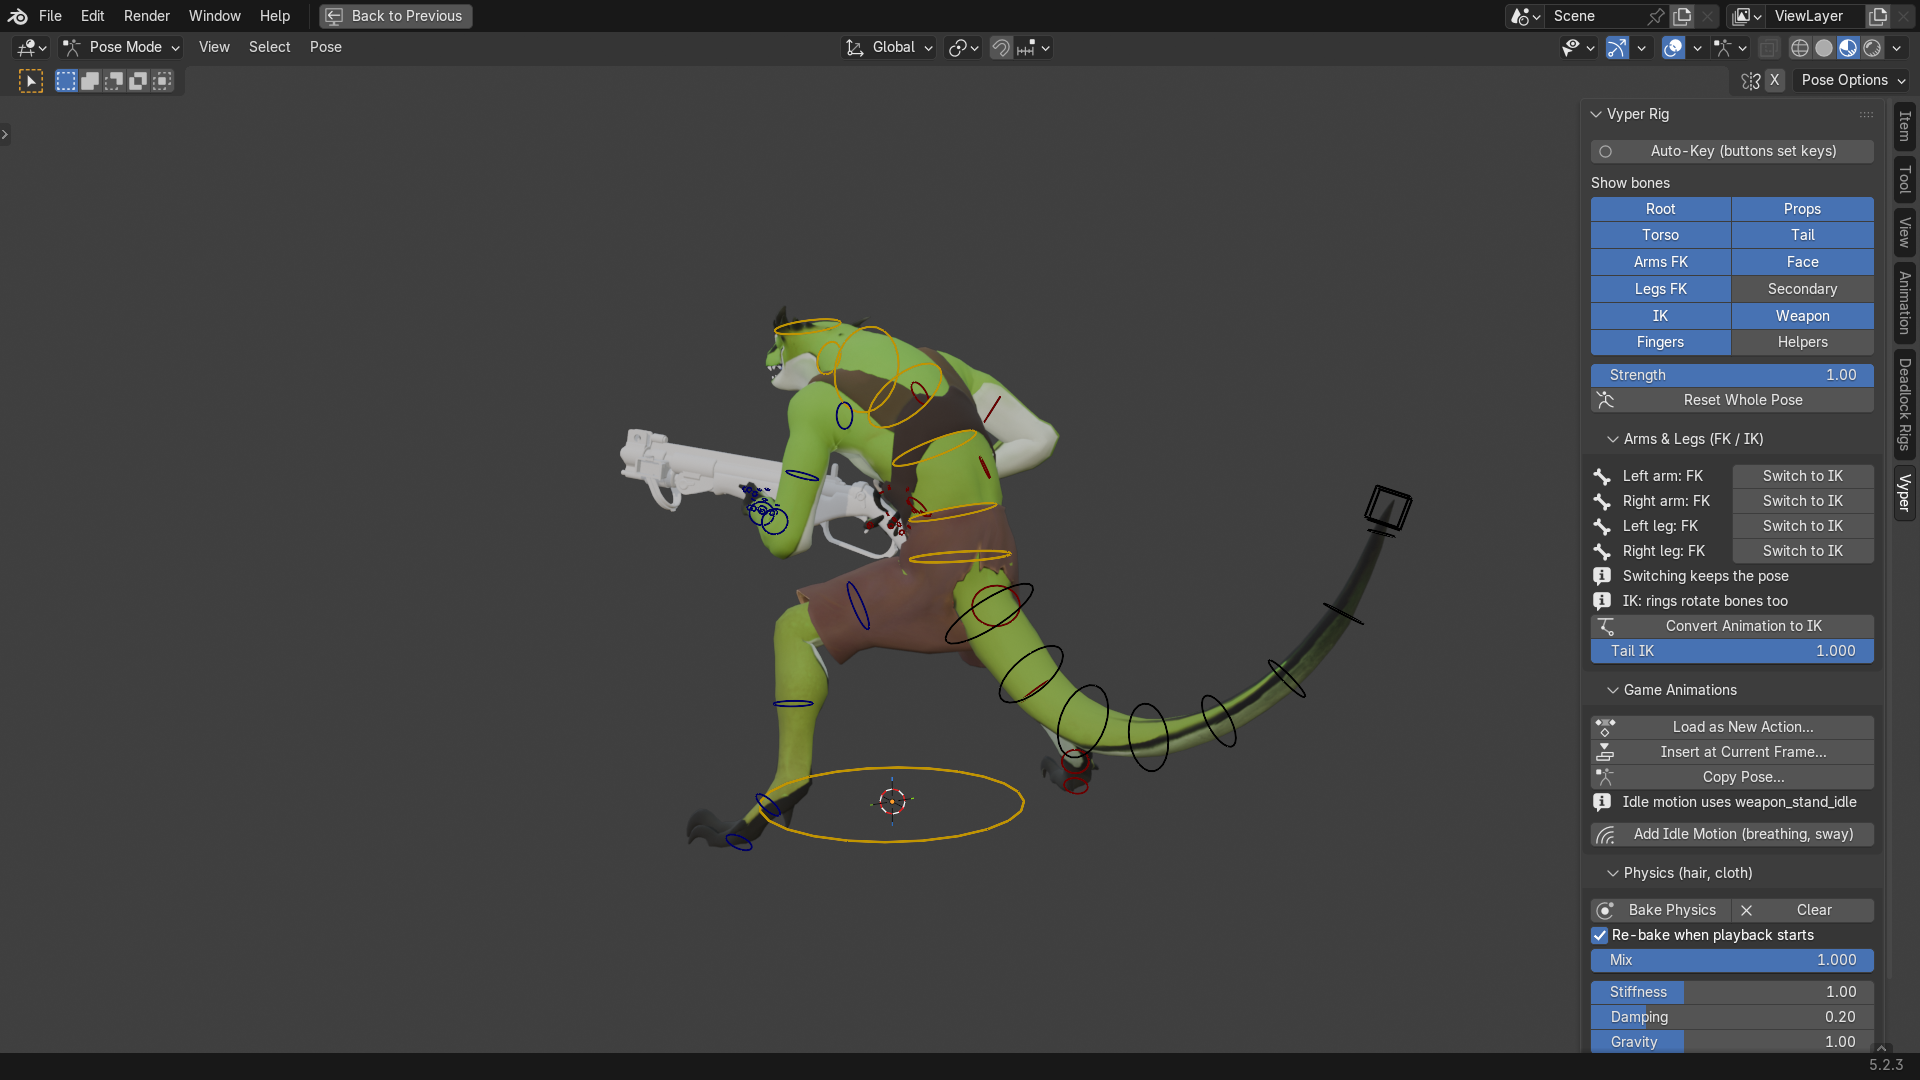
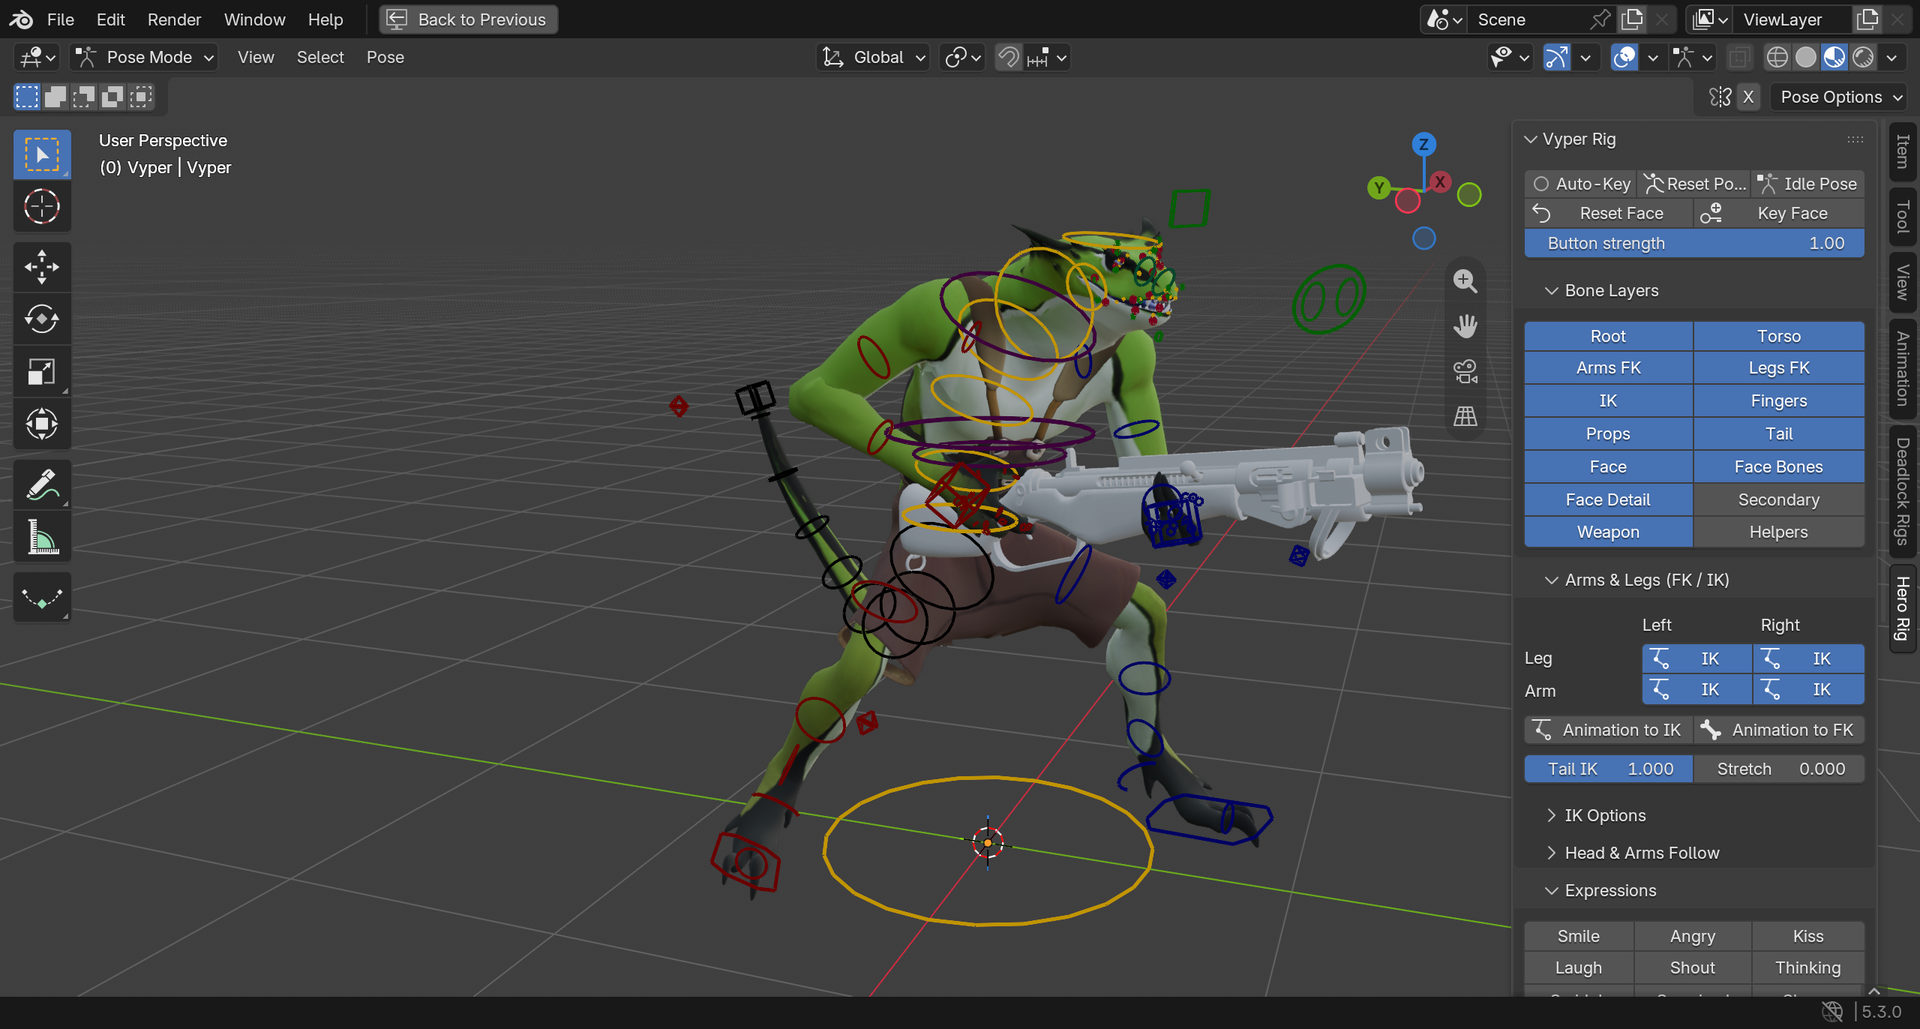
simplify readme and retake its screenshots for the current ui

diff --git a/README.md b/README.md
@@ -1,236 +1,94 @@
 # Deadlock Rigs
 
-Blender animation rigs for Deadlock heroes built into blender.
+A Blender add-on that builds animation rigs of Deadlock heroes, NPCs and maps from your own game install.
 
 ![Violet's rig in Blender](docs/violet_rig.png)
 
-Each hero gets a rig with:
-- IK/FK arms and legs, with soft IK, stretch, and switchable parents for the IK hands, feet and poles
-- feet that roll on the heel, ball and toe tip, bank onto either edge and swivel (the arc behind the heel), with an
-  IK ankle control that turns the foot on its own and an IK toe control
-- torso, hips and chest controls on top of the FK spine
-- head and FK arms that can keep their own angle instead of following the body
-- the game's twist bones and cloth/hair physics, including coats
-- tail controls for heroes with tails
-- hand poses
-- controls for the skeletons riding the hero: Baba on her bench, Mo on Krill, Rat King's rats (IK/FK limbs, own root)
-- weapons held in hand by default (the `weapon_hold` property; loading a game clip switches it off); Solomon's board
-  floats with his body instead
-- an FK jaw (and eyes) for heroes without a face rig whose jaw is skinned (Deadman Danny)
-- a Parts panel with the game's mesh switches (Rat King's banner, ammo and guard rats, Bebop's arm as hand, gun or
-  forearm), sliders for animated parts (Bebop's gun folding open and its hyperbeam mode) and extra models the hero
-  uses (Bebop's fired hook hand and sticky bomb, Rat King's ult diorama, Grey Talon's owl, Paige's dragon, Doorman's
-  door, Victor's hover death and about 55 more), each with its own control (animated ones have their clips in Game
-  Animations, and loading one shows the model), and a Glow slider for self-lit parts (Bebop's eyes, Rat King's
-  eyes, Infernus' arm)
-- the game's moving materials: textures that scroll and vertices that flicker as the timeline plays (Infernus' arm
-  and hair flames, Haze's smoke, Geist's arms, Mirage's djinn)
-- jointed hard-surface parts where the game has them fused to one bone (Bebop's jaw, monocle and head switches)
-- face shape keys, controls and expressions for the heroes listed under [Faces](#faces)
+## Features
 
-Transformed heroes are in the list under Forms: Silver's werewolf, Calico's cat, Baba's pigeon and Ivy's stone form,
-each with its own skeleton, controls and clips.
-
-NPCs are in the list too, under NPCs: the Guardian, Walker, Base Guardian, Mid-boss, Hidden King, Archmother and the
-ranged, melee and medic troopers of both teams (Amber and Sapphire). They get the same controls for whatever their
-skeleton has (the Mid-boss' five arms, the Walker's four legs, the patrons' lower body as a tail). The Base Guardian
-gets foot and knee controls that its pistons follow, and a turret aim target. The Amber and Sapphire Base Guardians are
-the watchers standing at the base entrances. The Hidden King and Archmother have a Stage switch in the Parts panel for
-their second stage, the weakened core floating where the patron was (its own control can move it to a hand), with the
-core's clips (idle, charge, explode, death...) in Game Animations; loading one of those clips switches the stage.
+- Every hero, their transformed forms (Silver's werewolf, Calico's cat, Baba's pigeon, Ivy's stone form) and the NPCs
+  (patrons, Guardians, Walkers, Mid-boss, troopers)
+- IK/FK arms and legs, foot roll, torso and head controls, tails, hand poses
+- Face rigs with expressions and lip sync shapes for most heroes
+- Hair and cloth physics
+- Weapons and props, plus the hero's extra models (Bebop's hook, Grey Talon's owl, Paige's dragon...)
+- The game's animations: load any clip onto the rig, or insert it into your own animation
+- Ability and clip particle effects added straight from the animations you load
+- Midtown and the Hideout, lit like the game, with NPCs, ziplines and particles
 
 | | |
 |---|---|
-| ![Abrams' rig](docs/abrams_rig.png) | ![Abrams posed from a game clip](docs/abrams_pose.png) |
-| ![Violet on a frame of her run clip](docs/violet_run.png) | ![Vyper's tail controls](docs/vyper_tail.png) |
+| ![Violet's face controls](docs/violet_face_controls.png) | ![Vyper's tail](docs/vyper_tail.png) |
+| ![Dynamo's Singularity with its effects](docs/dynamo_effects.png) | ![Midtown in Blender](docs/midtown.jpg) |
 
 ## Install
 
 Needs Blender 5.1 or newer and Deadlock installed through Steam. Works on Windows, Linux and macOS.
 
 1. Download the zip for your platform from [Releases](https://github.com/Sirsyorrz/deadlockrigs/releases).
-2. In Blender: Edit > Preferences > Get Extensions > menu at the top right > Install from Disk, and pick the zip.
-3. Open the 3D View sidebar (N) > Deadlock Rigs, pick a hero and press Build Rig.
+2. In Blender: Edit > Preferences > Get Extensions > the menu at the top right > Install from Disk, then pick the zip.
+3. Open the sidebar in the 3D View (N) > Deadlock Rigs, pick a hero and press Build Rig.
 
 ![The Deadlock Rigs panel](docs/addon_panel.png)
 
-The first build downloads Source2Viewer-CLI (about 60 MB) to read the game files. A build takes one to three
-minutes. Rigs are saved to `Documents/DeadlockRigs/<hero>/<hero>_rig.blend`, and rebuilding keeps the previous rig as
-`<hero>_rig.old.blend`.
+The first build downloads Source2Viewer-CLI (about 60 MB) to read the game files. Rigs are saved to
+`Documents/DeadlockRigs/<hero>/`.
 
-Export Animations saves all of the hero's game animations as `<hero>_animations.glb`, and as `<hero>_anims.blend`
-next to the rig. With that file there, the rig gets a Game Animations panel to load clips as actions, insert them at
-the current frame, copy a pose, or layer the idle's breathing on top. Keep it next to the rig file.
+## Using a rig
 
-The rig's controls are in the sidebar under the Hero Rig tab, in Pose Mode. With several rigs in a scene the panel
-follows the selected rig (or the selected hero's mesh). If you open a rig file without the add-on, allow "Run
-Python Scripts" so that panel loads.
-
-Settings are in Preferences > Add-ons > Deadlock Rigs: output folder, Deadlock folder (found through Steam when
-empty), an existing Source2Viewer-CLI, saving the model as `.glb`/`.fbx` too, and keeping build files for bug reports.
+- The rig's controls are in the sidebar under **Hero Rig**, in Pose Mode.
+- **Export Animations** once per hero to get its game clips, then use **Game Animations** to load them.
+- **Clip Effects** adds the particle effects for the loaded clips: Add Clip Effects for what the animation itself
+  plays, Add Ability Effects for the ability's buffs, domes and auras.
+- Opening a rig file without the add-on: allow "Run Python Scripts" so the panel loads.
 
 ## Maps
 
-The Map section of the panel builds Midtown or the Hideout from your own install, so it matches your game version.
-Build Map exports the map with Source2Viewer and merges its ~30,000 objects into one mesh per 100 m cell and material
-(same triangles, material UVs and materials), then saves `Documents/DeadlockRigs/maps/<map>/<map>.blend` with
-`textures` and `lightmaps` folders next to it. Midtown takes about 18 minutes and needs about 12 GB free while
-building; the result is about 3.5 GB. The panel shows when a game update has made the map outdated, and building again
-skips an up-to-date map.
+Under **Map** in the Deadlock Rigs panel: Build Map, then Link Map or Append Map to add it to your scene.
 
-**Mods.** Mods you have installed for Deadlock (in its `addons` folders, as mod managers put them) that replace map
-textures, such as posters and signs, are in the built map like they are in the game. Turn off Include Mods in the Map
-section and rebuild for the map as Valve ships it.
+- Midtown takes about 20 minutes to build and needs about 12 GB of free RAM. The Hideout takes a couple of minutes.
+- Midtown is big. Use **Crop** (to the camera or to boxes) before rendering.
+- Mods you have installed that change map textures are included. Untick Include Mods for the stock map.
 
-Link Map and Append Map add the map's collection to the open scene, make the map's sky the scene's world and put the
-game look on the scene. The map is at its game position; rigs are at the origin, so move the rig or the map.
-
-Link Map takes seconds: the map stays in its own file and your file points at it, so it can't be edited (moved,
-materials, the node group values below) and the map's folder has to come along when the project moves. Append Map
-copies the map into your file so all of it can be edited, but Blender stops responding for several minutes while it
-appends (about 5 for Midtown).
-
-**Lighting.** The map is lit the way the game lights it, from its own files: surfaces with lightmaps get the baked
-lightmap, props get the map's light probe volumes (sampled per vertex when the map is built), unlit materials show
-their colour as is, and signs and windows glow at the game's self-illumination strength. Lit windows show the
-curtains and rooms the game draws behind the glass, shifting with the view as in the game. The baked light is emission
-on top of each material, so lights you add still light the map; its strength is the Baked light strength value in the
-`Deadlock baked light` node group. The map's sun comes in at the game's strength (the Hideout's); where the game has
-none (Midtown), a Sun light from the game's sun direction lights only the rigs. The map's distance and height fog
-are in the `Deadlock fog` node group (Fog strength), and the sky is the scene's world, seen by the camera only.
-
-**Motion.** What moves in the game moves in the map, at the game's speed in seconds whatever the scene's frame
-rate: textures that scroll (screens, smoke, film, string lights), surfaces whose vertices sway or wobble (smoke
-cards, curtains, leaves, flags, ghosts) and props that loop an idle animation (the Hideout's ghosts, projector,
-reel-to-reel, gramophone, the computer's spinning pentagram). It plays, scrubs and renders with no baking. Swaying
-meshes have a `Deadlock motion` geometry nodes modifier; the props are in the map's `animated props` collection,
-each an armature with its idle clip on repeat.
-
-**Particles.** The map's particle effects (candle flames, the fireplace, Midtown's street steam and crows) are built
-from the game's files with the map and play with the timeline: each effect is simulated from a few seconds in, once
-it has settled, and baked into a seamless loop of 2 to 6 seconds at the game's speed, whatever the frame rate. Their
-sprites and trails turn to the camera and are shaded like the game's particle shader, lit by the map's light probes
-and dimmed by its fog; effects that draw models (the steam puffs) fade and wobble as the game's do. They are in the
-map's `particles` collection, each effect an empty holding its parts; with one selected in an appended map, the Map
-section's Rebuild simulates it again at another time or seed. Light-only effects, projected decals, the game's extra
-bloom on some materials and a few rarer operators aren't drawn.
-
-**Rig light.** Rigs are lit from the map's light probes per pixel, as the game lights heroes, so they pick up the
-room they stand in and follow it as they move. Linking or appending a map does this for the rigs in the scene, and so
-does appending a rig to a scene with a map; Light Rigs (Map section) does it by hand, next to its Strength. It is
-emission on top of the rig's materials, like the map's baked light. In Cycles the map's baked light also bounces onto
-rigs, so lower Strength there if they look too bright. Maps built before this need a rebuild.
-
-**NPCs.** With a map in the scene, the NPCs toggle (Map section, off by default) puts the game's NPCs where the
-game has them: the patrons over their bases, the Walkers, Lane Guardians, Base Guardians, the Mid-boss in its pit and a
-trooper wave at each lane's spawn (stood on the floor under the game's zipline points). The Which menu picks the
-groups. Rigs and animations that aren't built yet are built first, one after another, which takes a few minutes the
-first time. Each NPC is a full rig playing its game idle on repeat from its own point in the loop (Play Idles), in a
-`<map> NPCs` collection; the copies of an NPC share its meshes, so pose and animate them like any rig. Turning the
-toggle off removes them. Maps built before this get the NPC spots in a few seconds the first time. Placing them takes
-a while in a file with Midtown in it (Blender appends slowly into large files, about 8 seconds per kind of NPC, about
-2 minutes for all of them); the panel shows which one it is on.
-
-**Ziplines.** The Ziplines toggle under the NPCs puts the lanes' ziplines on the map in their lane colours (yellow,
-blue, green), in a `<map> ziplines` collection. They wobble and pulse as in the game, driven by the scene's time, so
-play or scrub the timeline to see them move. Turning it off removes them.
-
-**Game look.** Adding a map puts the game's post-processing on the scene: its compositor gets the game's exposure,
-filmic curve, bloom and vignette, and the view transform is set to Standard. That is most of what makes a render look
-like Deadlock rather than Blender. Bloom and Vignette in the Map section set their strength.
-
-**Crop.** With a map in the scene, the crop section can cut it down to what a shot needs, which makes the viewport and
-renders much faster: Add Crop Box and Crop to Boxes keep what is inside the boxes, Crop to Camera keeps what the scene
-camera sees over the frame range. Objects across the edge keep the polygons that reach in; particle effects stay whole
-when any of their particles is inside. The Keep dropdown picks
-map parts that are never cropped (skyline buildings, sky clouds, smoke, fog planes). Restore Map undoes it; Delete
-Cropped removes the cropped parts for good to make the file smaller. A linked map crops the same way: the map's
-collection is hidden and a `(cropped)` collection next to it holds what is kept, with the cut objects as local
-copies. With Hidden Behind on, Crop to Camera also drops the map parts the camera can't see past other map parts (a
-building behind another one), found by casting rays over each sampled frame; those parts then no longer cast shadows
-or show in reflections.
-
-**Rendering Midtown.** Rendered view and F12 load every texture and compile a shader for every material still in the
-scene, so render a cropped map (Crop to Camera with Hidden Behind keeps a street shot to a few hundred materials).
-Map Textures (Map section) switches the map to copies of its textures at most 1024 or 512 pixels, which the build
-writes next to the full ones: for a cropped street shot that took texture memory to about a third and VRAM to a bit
-over half. The lightmaps stay full size. The first render of a session also compiles the shaders, which takes a
-while; later renders reuse them.
-
-## Help
-
-Questions, bug reports and requests: the [DeadlockForge Discord](https://discord.gg/DkwQ2baWfb). When reporting a
-build problem, turn on "Keep build files" in the add-on settings and include the build log (Show Build Log).
+![The Hideout in Blender](docs/hideout.jpg)
 
 ## Faces
 
-| Hero | Face rig |
-|---|---|
-| Abrams, McGinnis | yes (from the game's face bones) |
-| Apollo, Calico, Celeste, Drifter, Graves, Grey Talon, Holliday, Infernus, Kelvin, Lady Geist, Mina, Mirage, Nurse Harrow, Paige, Pocket, Silver, Solomon, The Doorman, Venator, Vindicta, Violet | yes |
-| Billy, Rem, Victor | yes (from the game's face morphs) |
-| Mo & Krill | Mo yes; Krill's eyes are under his cap, not yet |
-| Baba | the rider yes (her eyes sit behind opaque lenses); the pigeon no |
-| Ivy, Rat King, Vyper | yes (hand-made, with a bone face) |
-| Viscous | yes (hand-made: his painted eyes blink, squint, widen, look and tilt; the goo squashes and stretches) |
-| Haze, Lash, Shiv, Warden, Wraith, Yamato | yes (painted eyes: the lids squash the paint, the iris slides to look) |
-| Bebop, Paradox | parts instead (Bebop's jaw, monocle and switches; Paradox's hourglass) |
-| Deadman Danny | jaw only (his skull is behind goggles) |
-| Dynamo, Seven, Sinclair | no (a cylinder head with glasses; a helmet; a blank mask) |
+Most heroes have a full face rig. A few have less:
+
+- Bebop and Paradox: parts instead of a face (Bebop's jaw and monocle, Paradox's hourglass)
+- Deadman Danny: jaw only
+- Krill and Baba's pigeon: no face yet
+- Dynamo, Seven and Sinclair: no face
 
 ![Violet's expressions](docs/faces_violet.png)
 ![Abrams' expressions](docs/faces_abrams.png)
-
-| | |
-|---|---|
-| ![Violet's face controls](docs/violet_face_controls.png) | ![Abrams' face controls](docs/abrams_face_controls.png) |
-
-## Hands
-
 ![Hand poses](docs/hands.png)
 
-## Known gaps
+## Help
 
-- Sinclair's arm twist doesn't fully match his game animations.
-- Mo & Krill get no hand poses (the skeleton lacks the finger bones).
+Questions and bug reports: the [DeadlockForge Discord](https://discord.gg/DkwQ2baWfb). For build problems, turn on
+"Keep build files" in the add-on preferences and send the build log (Show Build Log).
 
 ## Build from source
 
-The add-on runs `tools/pipeline.py`, which also works on its own. It needs Python 3 with numpy and scipy, Blender and
-Deadlock; Blender and Deadlock are found through Steam, or pass `--blender` and `--pak`.
+Needs Python 3 with numpy and scipy, Blender and Deadlock (both found through Steam).
 
     python tools/pipeline.py violet             # build one hero
-    python tools/pipeline.py all dev            # every hero, with the animation library and tests
     python tools/pipeline.py --help             # steps and options
-
-Per-hero settings live in `heroes.json`.
-
-To package the add-on yourself you need Python 3 with pip (or `uv`), Blender 5.1 or newer (found through Steam, or
-set `BLENDER` to its path) and internet access for the scipy wheels. Deadlock isn't needed for this.
-
-    git clone https://github.com/Sirsyorrz/deadlockrigs
-    cd deadlockrigs
-    python tools/release.py addon               # or: addon patch|minor|major|X.Y.Z to bump the version first
-
-This writes `dist/deadlock_rigs-<version>-<platform>.zip` for Windows, Linux and macOS (Apple silicon and Intel).
-Install the one for your platform as under [Install](#install).
+    python tools/release.py addon               # package the add-on zips into dist/
 
 ## Credits
 
-The map tools follow work by others in the Deadlock community:
-
-- Miruneko (m1ru_neko), [Deadlock Map Optimizer](https://github.com/Miruneko0/Deadlock-Map-Optimizer): its Map Crop
-  add-on showed cropping a map to boxes or the camera, which our Crop is modelled on.
-- spenzo: his Blender port of Midtown, and merging the map's objects so Blender can handle it, which our map build
-  does from your own install.
-- Divined, Deadlock Bridge: the particle simulation and shading, and the model materials of particle effects, are his
-  add-on's (in `tools/deadlock_bridge`, GPL-3.0-or-later), with a few changes to fit these maps.
-- [Cravvnn](https://github.com/cravvnn), [RenderLock](https://github.com/cravvnn/RenderLock): research into using
-  the game's Source 2 lighting in Blender.
-- [Source 2 Viewer / ValveResourceFormat contributors](https://github.com/ValveResourceFormat/ValveResourceFormat):
-  the map export, and the lightmap, light probe and fog shaders our map lighting is ported from.
+- Miruneko, [Deadlock Map Optimizer](https://github.com/Miruneko0/Deadlock-Map-Optimizer): the idea behind Crop.
+- spenzo: his Blender port of Midtown and merging its objects.
+- Divined, Deadlock Bridge: particle simulation and shading (`tools/deadlock_bridge`, GPL-3.0-or-later).
+- [Cravvnn](https://github.com/cravvnn), [RenderLock](https://github.com/cravvnn/RenderLock): Source 2 lighting in
+  Blender.
+- [Source 2 Viewer / ValveResourceFormat](https://github.com/ValveResourceFormat/ValveResourceFormat): map export and
+  the shaders the map lighting is ported from.
 
 ## License
 
-GPL-3.0-or-later. Source2Viewer-CLI is from [Source 2 Viewer](https://github.com/ValveResourceFormat/ValveResourceFormat)
-(MIT).
+GPL-3.0-or-later. Source2Viewer-CLI is from
+[Source 2 Viewer](https://github.com/ValveResourceFormat/ValveResourceFormat) (MIT).
